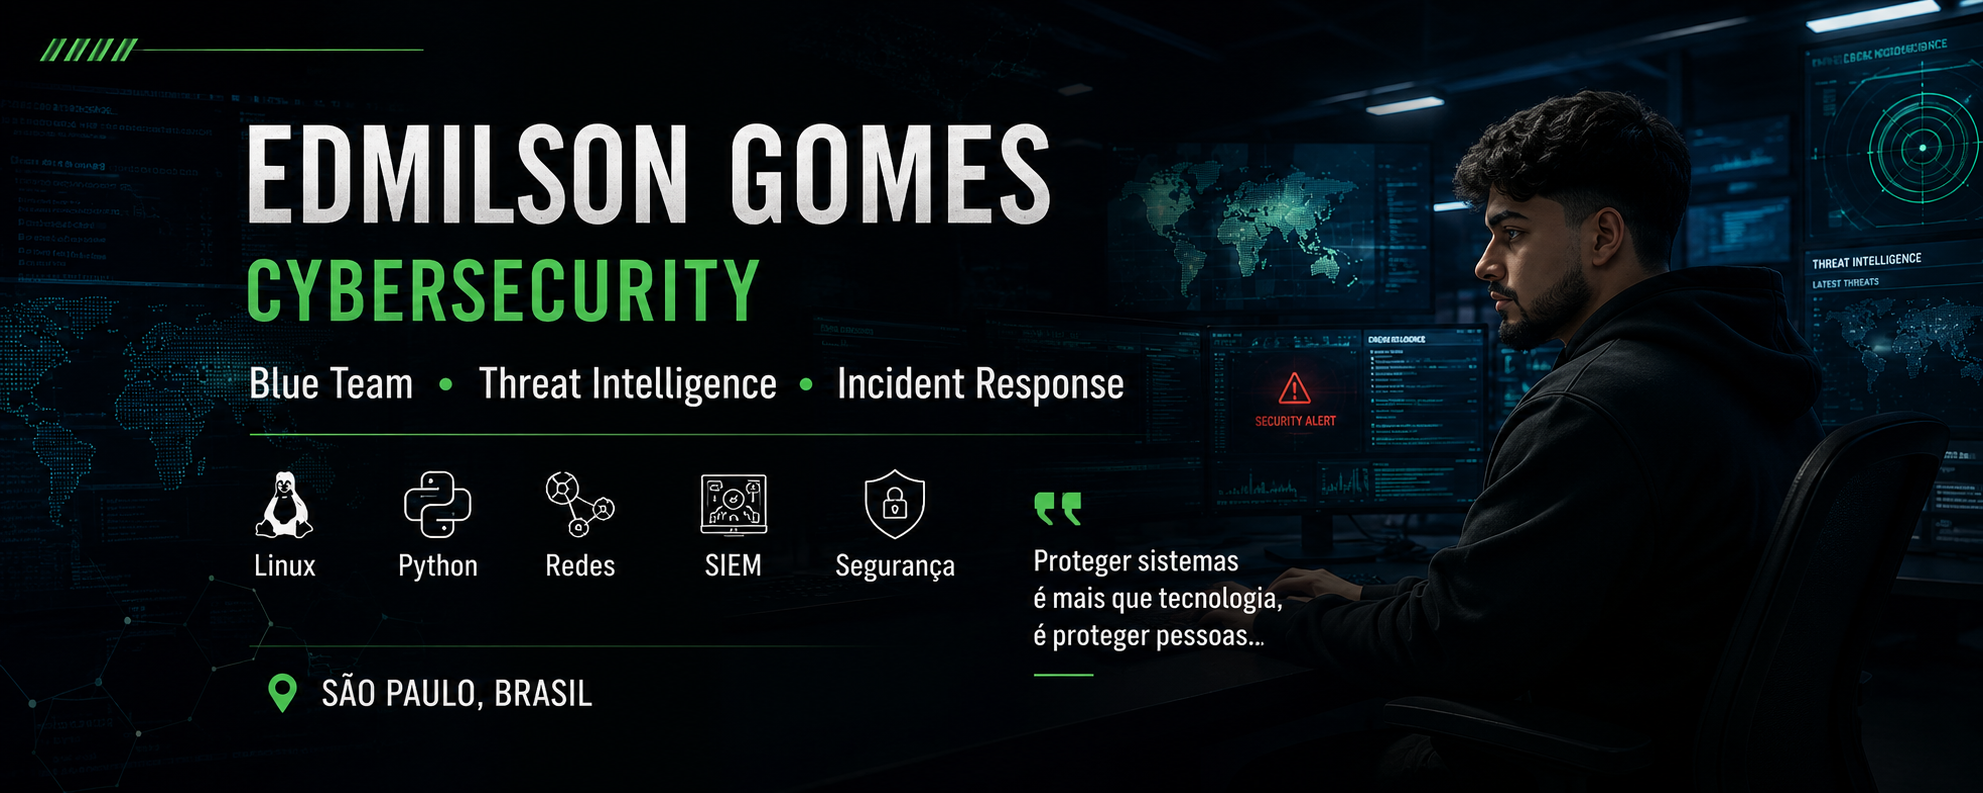
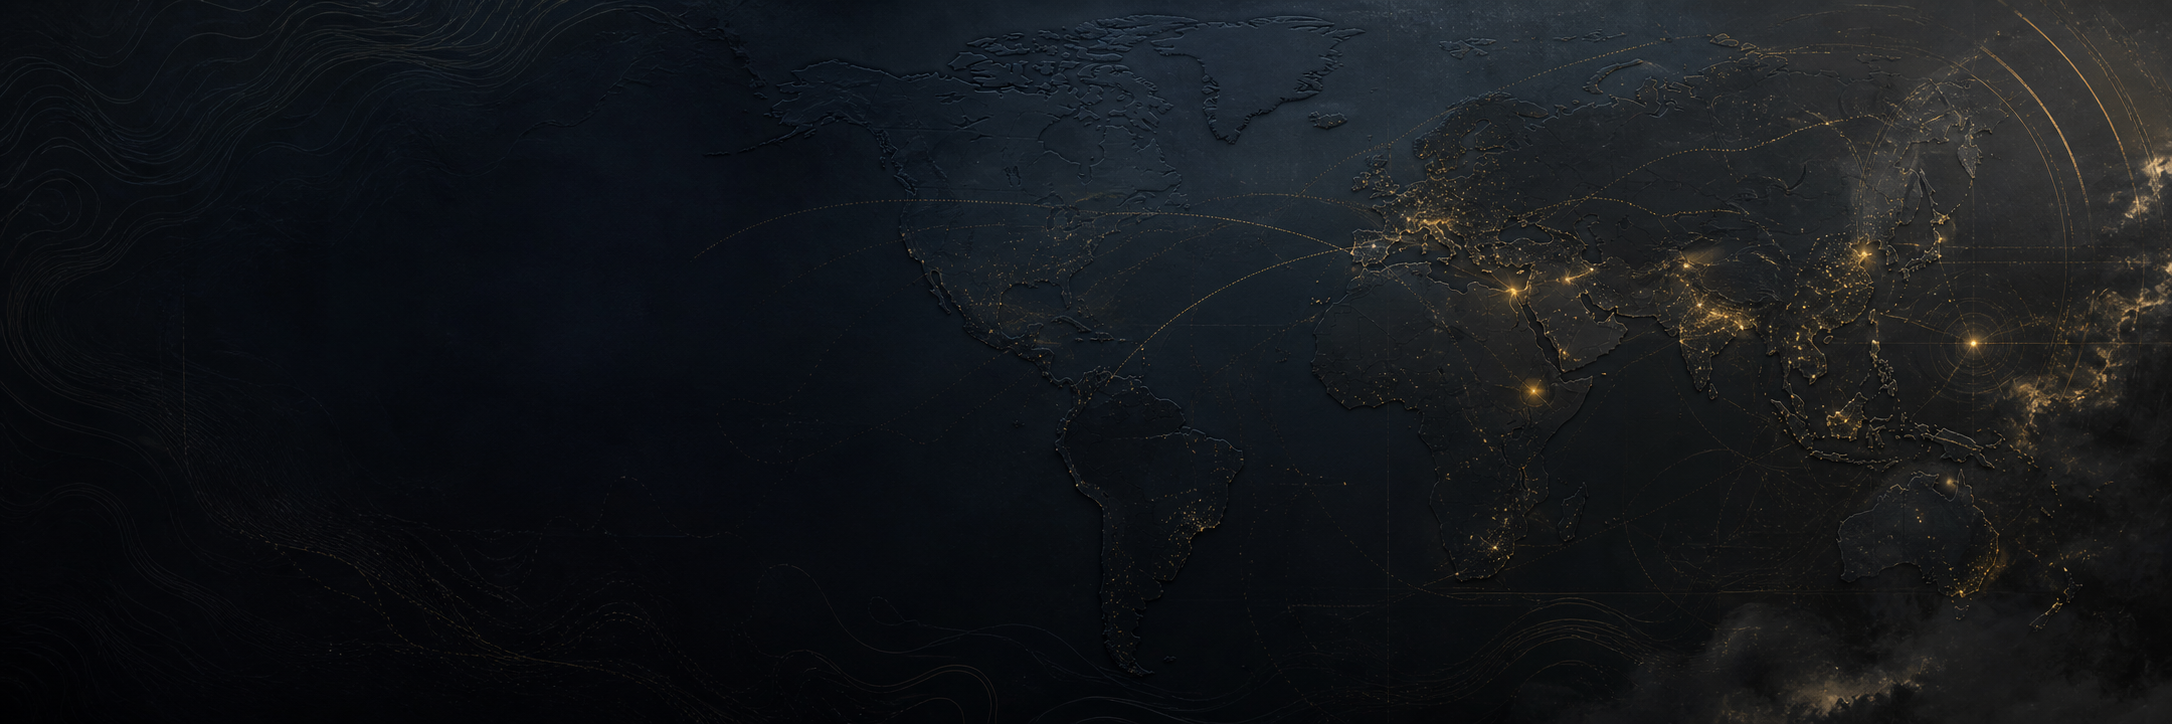
chore(release): finalize war room v1.0

diff --git a/README.md b/README.md
@@ -15,7 +15,8 @@
 <img src="https://img.shields.io/badge/MIT-License-blue?style=for-the-badge">
 
 </p>
-# WAR ROOM
+
+# WAR ROOM v1.0
 
 **Interactive Cyber Attack Timeline**
 
@@ -68,6 +69,19 @@ Tudo em um único arquivo HTML autocontido, sem dependências de build.
 
 <p align="center">
 <img src="demo-10s.gif" width="100%">
+</p>
+
+---
+
+## Screenshots da Release
+
+<p align="center">
+  <img src="assets/screenshots/release-hero.jpg" alt="Entrada cinematográfica do WAR ROOM" width="49%">
+  <img src="assets/screenshots/intelligence-center.jpg" alt="Mapa tático do Intelligence Center" width="49%">
+</p>
+
+<p align="center">
+  <img src="assets/screenshots/modern-dossier.jpg" alt="Dossiê moderno Rússia x Ucrânia" width="74%">
 </p>
 
 ---
